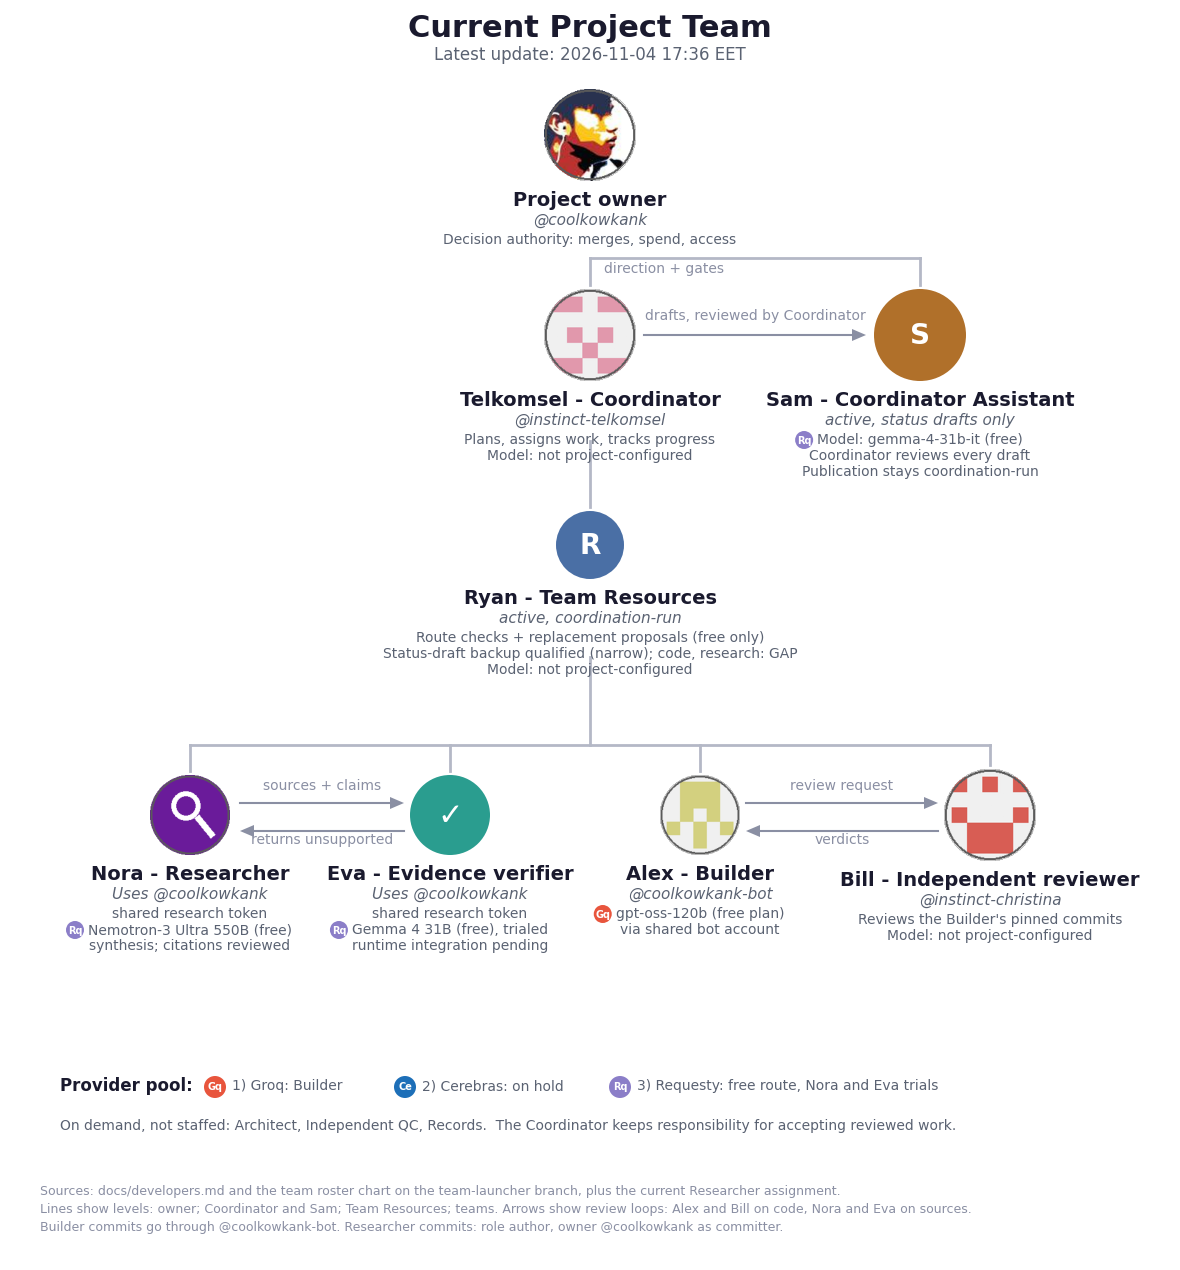
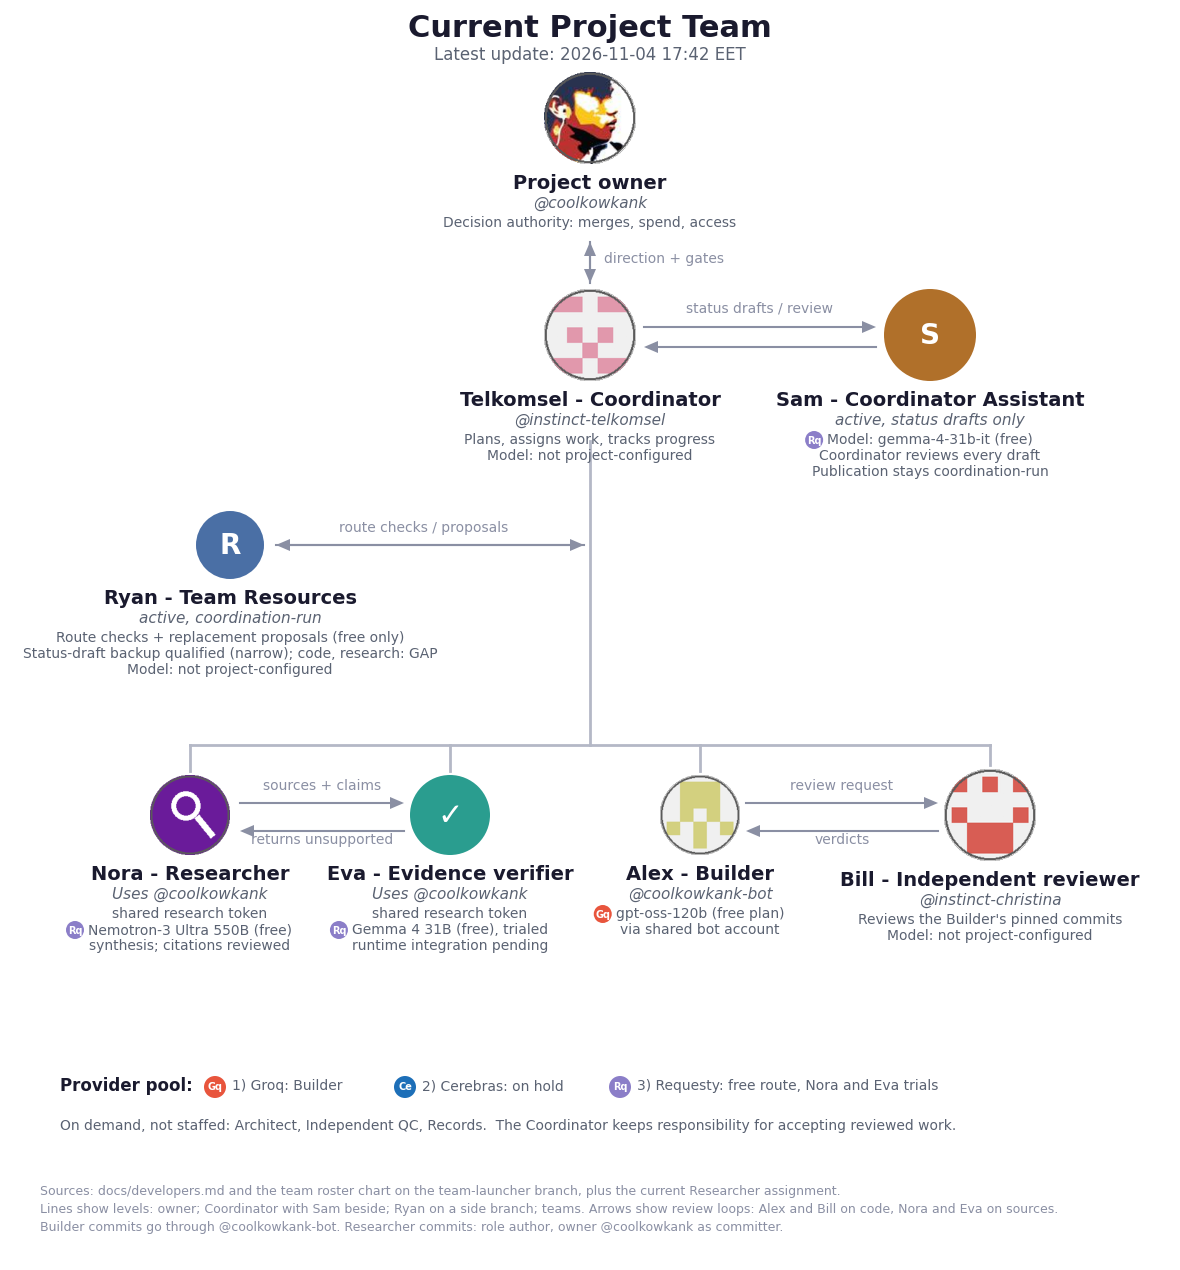
Team chart and page: match owner sketch (Sam beside Coordinator, Ryan side branch of the trunk)

diff --git a/docs/progress/team/index.html b/docs/progress/team/index.html
@@ -17,27 +17,39 @@ main{max-width:1100px;margin:0 auto}h1{font-size:24px;margin:0 0 4px}h2{font-siz
 .grid{display:grid;grid-template-columns:repeat(2,1fr);gap:10px 40px;width:100%;position:relative;padding-top:14px;border-top:2px solid var(--line);margin-top:0}
 .pair{display:grid;grid-template-columns:1fr 1fr;gap:10px;position:relative}
 .pair .loop{grid-column:1/-1;text-align:center;font-size:12px;color:#8a8fa3}
-.pairs>.pair:nth-child(3){grid-column:1/-1}.pairs{display:grid;grid-template-columns:1fr 1fr;gap:18px;width:100%;border-top:2px solid var(--line);padding-top:14px}
+.pairs{display:grid;grid-template-columns:1fr 1fr;gap:18px;width:100%;border-top:2px solid var(--line);padding-top:14px}
 .b{display:inline-block;min-width:22px;height:18px;line-height:18px;border-radius:9px;color:#fff;font-size:10px;font-weight:700;text-align:center;padding:0 5px;margin-right:4px;vertical-align:middle}
 .Gq{background:#e8553d}.Ce{background:#1d6fb8}.Rq{background:#8b7ec8}
 .vac{border-style:dashed;background:#faf9f6;text-align:left}
 .vacs{display:grid;grid-template-columns:1fr 1fr;gap:10px}
 .tag{display:inline-block;font-size:11px;font-weight:700;border-radius:6px;padding:1px 7px;margin-left:6px}
 .act{background:#e3f1e6;color:#1f6b33}.vc{background:#eee;color:#555}
+.org{display:grid;grid-template-columns:1fr 90px 320px 90px 1fr;grid-template-rows:auto 40px auto 30px auto 30px;align-items:start;justify-items:center;max-width:1000px;margin:0 auto}
+.org .card.top{width:100%}.org em{display:block;font-size:11px;color:#8a8fa3;font-style:normal}.org .o-ov span,.org .o-sh span,.org .o-rh span{font-size:22px;color:#6b7080;line-height:1}.o-rh .m{display:none}.o-cor{align-self:stretch}.o-cor .card{height:100%}.o-rh{grid-column:2/4!important;justify-self:start!important;width:calc(90px + 160px)}.o-rh .bar{display:flex;align-items:center;width:100%}.o-rh .bar:before{content:"\25C2";color:#6b7080}.o-rh .bar:after{content:"\25B8";color:#6b7080}.o-rh .bar i{flex:1;height:2px;background:#6b7080}.o-rh .mar{display:none}
+.o-owner{grid-column:3;grid-row:1;width:100%}.o-ov{grid-column:3;grid-row:2;text-align:center}.o-cor{grid-column:3;grid-row:3;width:100%}
+.o-sh{grid-column:4;grid-row:3;text-align:center;align-self:center}.o-sam{grid-column:5;grid-row:3;width:100%}
+.o-trunk{grid-column:3;grid-row:4/8;width:100%;display:flex;justify-content:center;align-self:stretch}.o-trunk i{width:2px;background:var(--line)}
+.o-ryan{grid-column:1;grid-row:5;width:100%}.o-rh{grid-column:2;grid-row:5;text-align:center;justify-self:stretch;align-self:center}
+@media(max-width:900px){.org{grid-template-columns:1fr;grid-template-rows:none;gap:6px}.org>*{grid-column:1!important;grid-row:auto!important;max-width:380px}.o-trunk{display:none}.o-owner{order:1}.o-ov{order:2}.o-cor{order:3}.o-sh{order:4}.o-sam{order:5}.o-rh{order:6}.o-ryan{order:7}.o-sh span,.o-ov span,.o-rh span{display:inline-block}.o-sh span{transform:rotate(90deg)}.o-cor .card{height:auto}.o-rh{width:auto;justify-self:center!important}.o-rh .d{display:none!important}.o-rh .m{display:block}.o-rh .mar{display:inline-block}.o-rh{order:6}}
 @media(max-width:700px){.pairs,.vacs,.pair{grid-template-columns:1fr}}
 a{color:#1a5fb4}
 </style><link rel="stylesheet" href="../nav.css"><script src="../nav.js"></script></head><body><main>
 <h1>Current Project Team</h1>
 <p class="mut">Static page, updated when the team changes. Large avatar = role holder. "Not project-configured" means the project does not document a model or provider. Active members and vacant roles are listed separately.</p>
 
+<div class="org">
+ <div class="o-owner"><div class="card top"><img class="av" src="../avatars/coolkowkank.png" alt=""><div class="role">Project owner</div><div class="handle">@coolkowkank</div><div class="ln">Decision authority: merges, spend, access</div></div></div>
+ <div class="o-ov" aria-label="Owner and Coordinator, two-way"><span>&#8661;</span><em>direction + gates</em></div>
+ <div class="o-cor"><div class="card top"><img class="av" src="../avatars/instinct-telkomsel.png" alt=""><div class="role">Telkomsel - Coordinator <span class="tag act">active</span></div><div class="handle">@instinct-telkomsel</div><div class="ln">Plans, assigns work, tracks progress</div><div class="ln">Model: not project-configured</div></div></div>
+ <div class="o-sh" aria-label="Coordinator and Sam, two-way"><span>&#8644;</span><em>status drafts / review</em></div>
+ <div class="o-sam"><div class="card top"><div class="av" style="background:#b0702a;color:#fff;font-size:30px;line-height:60px;font-weight:700;text-align:center" aria-hidden="true">S</div><div class="role">Sam - Coordinator Assistant <span class="tag act">active</span></div><div class="handle">status drafts only</div><div class="ln"><span class="b Rq">Rq</span>Model: google/gemma-4-31b-it (free)</div><div class="ln">Coordinator reviews every draft</div><div class="ln">Publication stays coordination-run</div></div></div>
+ <div class="o-trunk"><i></i></div>
+ <div class="o-ryan"><div class="card top"><div class="av" style="background:#4a6fa5;color:#fff;font-size:30px;line-height:60px;font-weight:700;text-align:center" aria-hidden="true">R</div><div class="role">Ryan - Team Resources <span class="tag act">active</span></div><div class="handle">coordination-run</div><div class="ln">Checks model routes (working / capped) from evidence and proposes replacements from free resources only</div><div class="ln">Status-draft backup: Groq gpt-oss-120b, narrow, fixed template, every draft reviewed. Code and research backup: gap</div><div class="ln">Model: not project-configured</div></div></div>
+ <div class="o-rh" aria-label="Ryan and the Coordinator line, two-way"><span class="mar">&#8644;</span><div class="bar d"><i></i></div><em class="d">route checks / proposals</em><em class="m">Ryan is a side branch of the Coordinator line (two-way): route checks / proposals</em></div>
+</div>
+<p class="ln" style="text-align:center;margin:0">&#8595; Coordinator line to the teams. Ryan is a side branch of this line, not a step in it.</p>
 <div class="tier">
- <div class="card top"><img class="av" src="../avatars/coolkowkank.png" alt=""><div class="role">Project owner</div><div class="handle">@coolkowkank</div><div class="ln">Decision authority: merges, spend, access</div></div>
- <div class="link"><span>direction + gates</span></div>
- <div style="display:flex;gap:12px;flex-wrap:wrap;justify-content:center"><div style="flex:1 1 260px;max-width:340px"><div class="card top"><img class="av" src="../avatars/instinct-telkomsel.png" alt=""><div class="role">Telkomsel - Coordinator <span class="tag act">active</span></div><div class="handle">@instinct-telkomsel</div><div class="ln">Plans, assigns work, tracks progress</div><div class="ln">Model: not project-configured</div></div></div><div style="flex:1 1 260px;max-width:340px"><div class="card top"><div class="av" style="background:#b0702a;color:#fff;font-size:30px;line-height:60px;font-weight:700;text-align:center" aria-hidden="true">S</div><div class="role">Sam - Coordinator Assistant <span class="tag act">active</span></div><div class="handle">status drafts only</div><div class="ln"><span class="b Rq">Rq</span>Model: google/gemma-4-31b-it (free)</div><div class="ln">Coordinator reviews every draft</div><div class="ln">Publication stays coordination-run</div></div></div></div>
- <div class="loop">Sam: status drafts, reviewed by the Coordinator</div>
- <div class="link"><span>coordination</span></div>
- <div class="card top"><div class="av" style="background:#4a6fa5;color:#fff;font-size:30px;line-height:60px;font-weight:700;text-align:center" aria-hidden="true">R</div><div class="role">Ryan - Team Resources <span class="tag act">active</span></div><div class="handle">coordination-run</div><div class="ln">Checks model routes (working / capped) from evidence and proposes replacements from free resources only</div><div class="ln">Status-draft backup: Groq gpt-oss-120b, narrow, fixed template, every draft reviewed. Code and research backup: gap</div><div class="ln">Model: not project-configured</div></div>
- <div class="link"></div>
+ <div class="link" style="height:14px"></div>
  <div class="pairs">
   <div class="pair">
    <div class="card"><img class="av" src="../avatars/researcher-role.png" alt=""><div class="role">Nora - Researcher <span class="tag act">active</span></div><div class="handle">Uses @coolkowkank</div><div class="ln">shared research token</div><div class="ln"><span class="b Rq">Rq</span>Nemotron-3 Ultra 550B (free)</div><div class="ln">synthesis; citations reviewed</div></div>

diff --git a/docs/progress/team_chart.py b/docs/progress/team_chart.py
@@ -45,11 +45,11 @@ def render(here, updated):
         if label: text((a[0]+b[0])/2+lx, (a[1]+b[1])/2+ly, label, 10, "#8a8fa3")
     text(W/2, 14, "Current Project Team", 22, INK, "bold")
     text(W/2, 46, "Latest update: " + updated, 12, GRAY)
-    OWN=(590,135,46); COR=(590,335,46); RES=(190,815,40); EVA=(450,815,40); BLD=(700,815,40); REV=(990,815,46)
+    OWN=(590,118,46); COR=(590,335,46); RES=(190,815,40); EVA=(450,815,40); BLD=(700,815,40); REV=(990,815,46)
     node(OWN[0],OWN[1],OWN[2],"coolkowkank"); node(COR[0],COR[1],COR[2],"instinct-telkomsel")
     node(BLD[0],BLD[1],BLD[2],"coolkowkank-bot"); node(REV[0],REV[1],REV[2],"instinct-christina")
     node(RES[0],RES[1],RES[2],"researcher-role"); node(EVA[0],EVA[1],EVA[2],icon="✓",bg="#2a9d8f")
-    RYN=(590,545,34); AST=(920,335,46)
+    RYN=(230,545,34); AST=(930,335,46)
     node(RYN[0],RYN[1],RYN[2],icon="R",bg="#4a6fa5",fs=20); node(AST[0],AST[1],AST[2],icon="S",bg="#b0702a",fs=20)
     def labels(c, role, handle, l1, l2=None, l3=None):
         x, y, r = c; text(x, y+r+10, role, 14, INK, "bold"); text(x, y+r+32, handle, 11, GRAY, style="italic")
@@ -67,16 +67,19 @@ def render(here, updated):
     labels(AST,"Sam - Coordinator Assistant","active, status drafts only",("Model: gemma-4-31b-it (free)","Rq"),"Coordinator reviews every draft","Publication stays coordination-run")
     # hierarchy: owner > coordinator > others (plain lines, no arrowheads)
     HL="#b4b8c6"
-    ax.plot([OWN[0],COR[0]],[258,COR[1]-COR[2]-4],color=HL,lw=2,zorder=1)
+    arrow((OWN[0],OWN[1]+OWN[2]+78),(COR[0],COR[1]-COR[2]-6))
+    arrow((COR[0],COR[1]-COR[2]-6),(OWN[0],OWN[1]+OWN[2]+78))
+    text(OWN[0]+14,252,"direction + gates",10,"#8a8fa3",ha="left")
     busy=745
-    ax.plot([COR[0],COR[0]],[COR[1]+COR[2]+60,RYN[1]-RYN[2]-4],color=HL,lw=2,zorder=1)
-    ax.plot([RYN[0],RYN[0]],[RYN[1]+RYN[2]+78,busy],color=HL,lw=2,zorder=1)
+    ax.plot([COR[0],COR[0]],[COR[1]+COR[2]+60,busy],color=HL,lw=2,zorder=1)
     ax.plot([RES[0],REV[0]],[busy,busy],color=HL,lw=2,zorder=1)
     for c in (RES,EVA,BLD,REV): ax.plot([c[0],c[0]],[busy,c[1]-c[2]-4],color=HL,lw=2,zorder=1)
-    ax.plot([OWN[0],AST[0]],[258,258],color=HL,lw=2,zorder=1)
-    ax.plot([AST[0],AST[0]],[258,AST[1]-AST[2]-4],color=HL,lw=2,zorder=1)
-    arrow((COR[0]+COR[2]+8,COR[1]),(AST[0]-AST[2]-8,COR[1]),"drafts, reviewed by Coordinator",0,-26)
-    text(OWN[0]+14,262,"direction + gates",10,"#8a8fa3",ha="left")
+    arrow((COR[0]+COR[2]+8,COR[1]-8),(AST[0]-AST[2]-8,COR[1]-8))
+    arrow((AST[0]-AST[2]-8,COR[1]+12),(COR[0]+COR[2]+8,COR[1]+12))
+    text((COR[0]+AST[0])/2,COR[1]-34,"status drafts / review",10,"#8a8fa3")
+    arrow((RYN[0]+RYN[2]+12,RYN[1]),(COR[0]-6,RYN[1]))
+    arrow((COR[0]-6,RYN[1]),(RYN[0]+RYN[2]+12,RYN[1]))
+    text((RYN[0]+COR[0])/2+14,RYN[1]-24,"route checks / proposals",10,"#8a8fa3")
     # workflow arrows (lateral, not hierarchy)
     arrow((RES[0]+50,RES[1]-12),(EVA[0]-46,EVA[1]-12),"sources + claims",0,-24)
     arrow((EVA[0]-46,EVA[1]+16),(RES[0]+50,RES[1]+16),"returns unsupported",0,2)
@@ -92,6 +95,6 @@ def render(here, updated):
     badge(620,y0+2,"Rq",11); text(637,y0-6,"3) Requesty: free route, Nora and Eva trials",10,ha="left")
     text(60,y0+34,"On demand, not staffed: Architect, Independent QC, Records.  The Coordinator keeps responsibility for accepting reviewed work.",10,ha="left")
     text(40,1185,"Sources: docs/developers.md and the team roster chart on the team-launcher branch, plus the current Researcher assignment.",9,"#8a8fa3",ha="left")
-    text(40,1203,"Lines show levels: owner; Coordinator and Sam; Team Resources; teams. Arrows show review loops: Alex and Bill on code, Nora and Eva on sources.",9,"#8a8fa3",ha="left")
+    text(40,1203,"Lines show levels: owner; Coordinator with Sam beside; Ryan on a side branch; teams. Arrows show review loops: Alex and Bill on code, Nora and Eva on sources.",9,"#8a8fa3",ha="left")
     text(40,1221,"Builder commits go through @coolkowkank-bot. Researcher commits: role author, owner @coolkowkank as committer.",9,"#8a8fa3",ha="left")
     fig.savefig(os.path.join(here, "team.png")); plt.close(fig)
